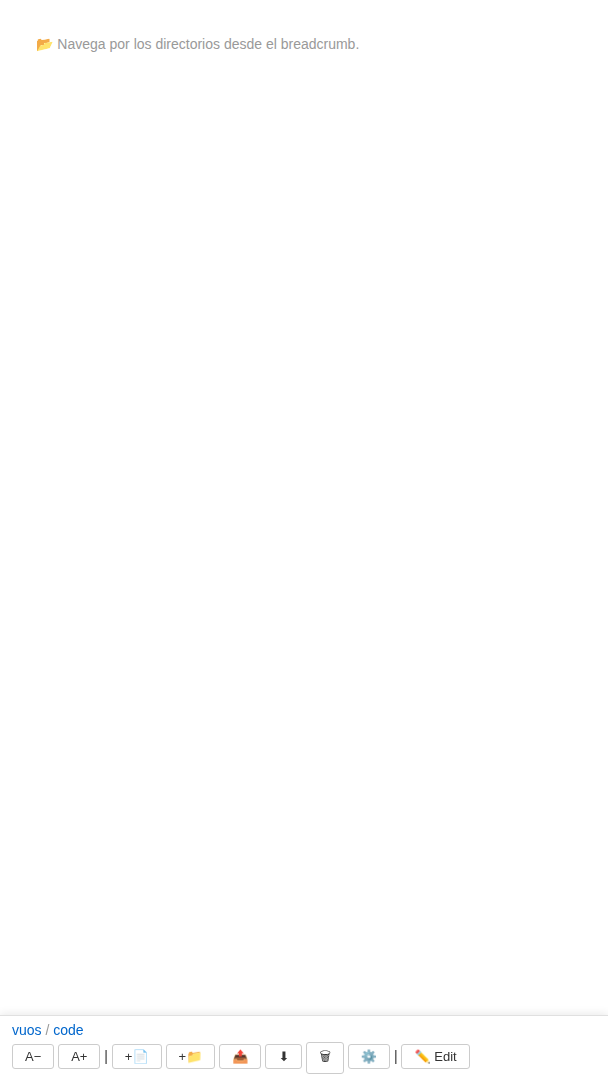
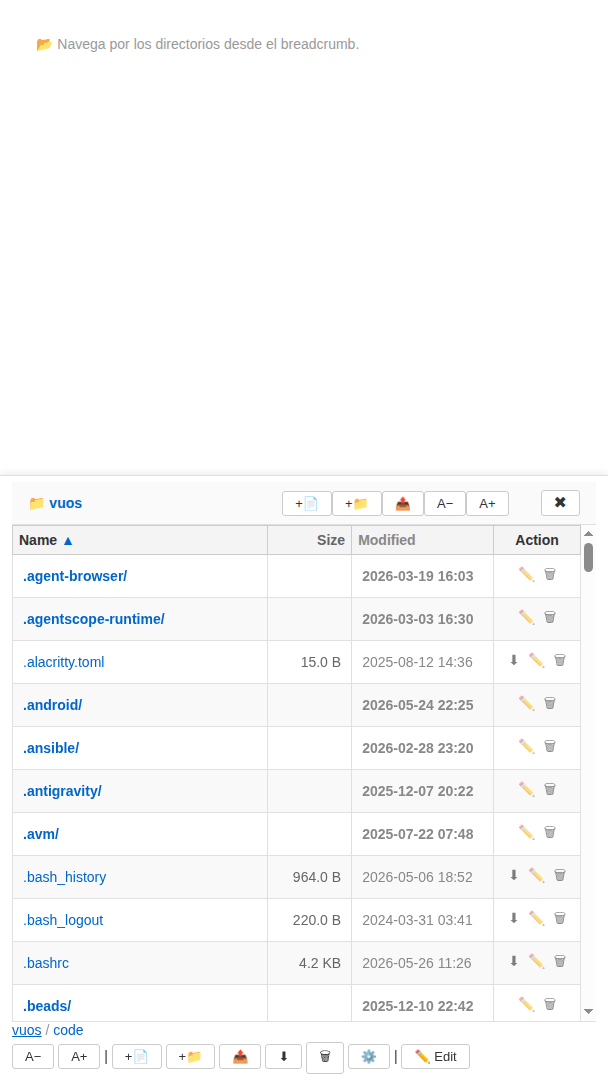
screenshots: csv viewer, larger font, file modal, auto-gen script

diff --git a/README.md b/README.md
@@ -5,9 +5,10 @@
 Serve any directory as a browsable, interactive web app — no framework, no database, just Python.
 
 <p align="center">
-  <img src="screenshots/dir-listing.png" width="280" alt="Directory listing" />
-  <img src="screenshots/code-viewer.png" width="280" alt="Code viewer" />
-  <img src="screenshots/markdown-viewer.png" width="280" alt="Markdown renderer" />
+  <img src="screenshots/dir-listing.png" width="260" alt="File browser modal" />
+  <img src="screenshots/csv-viewer.png" width="260" alt="CSV table viewer" />
+  <img src="screenshots/code-viewer.png" width="260" alt="Code viewer" />
+  <img src="screenshots/markdown-viewer.png" width="260" alt="Markdown renderer" />
 </p>
 
 ## Features